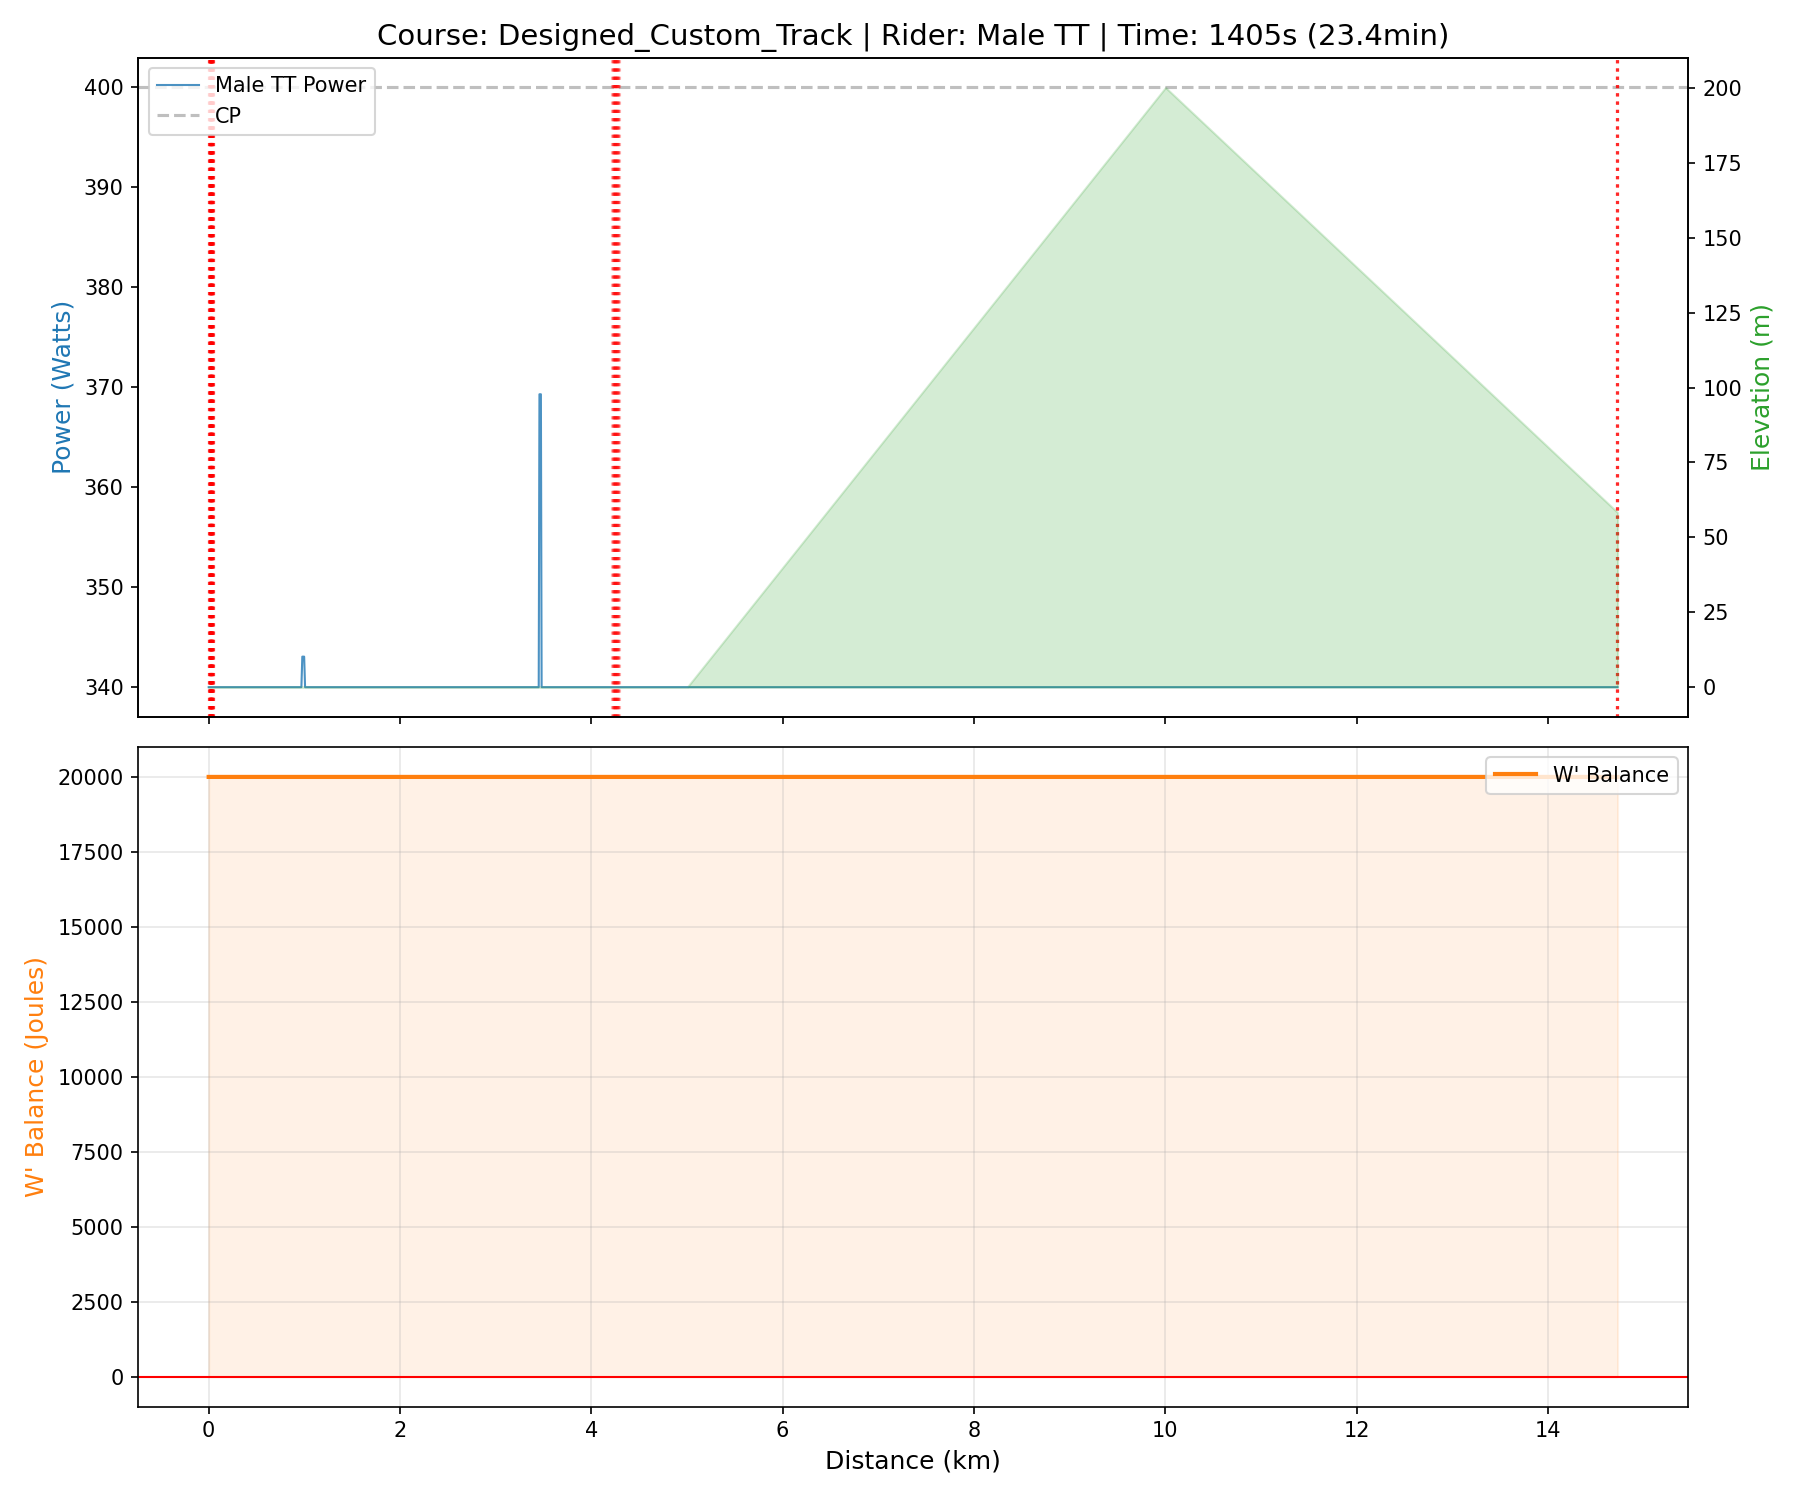
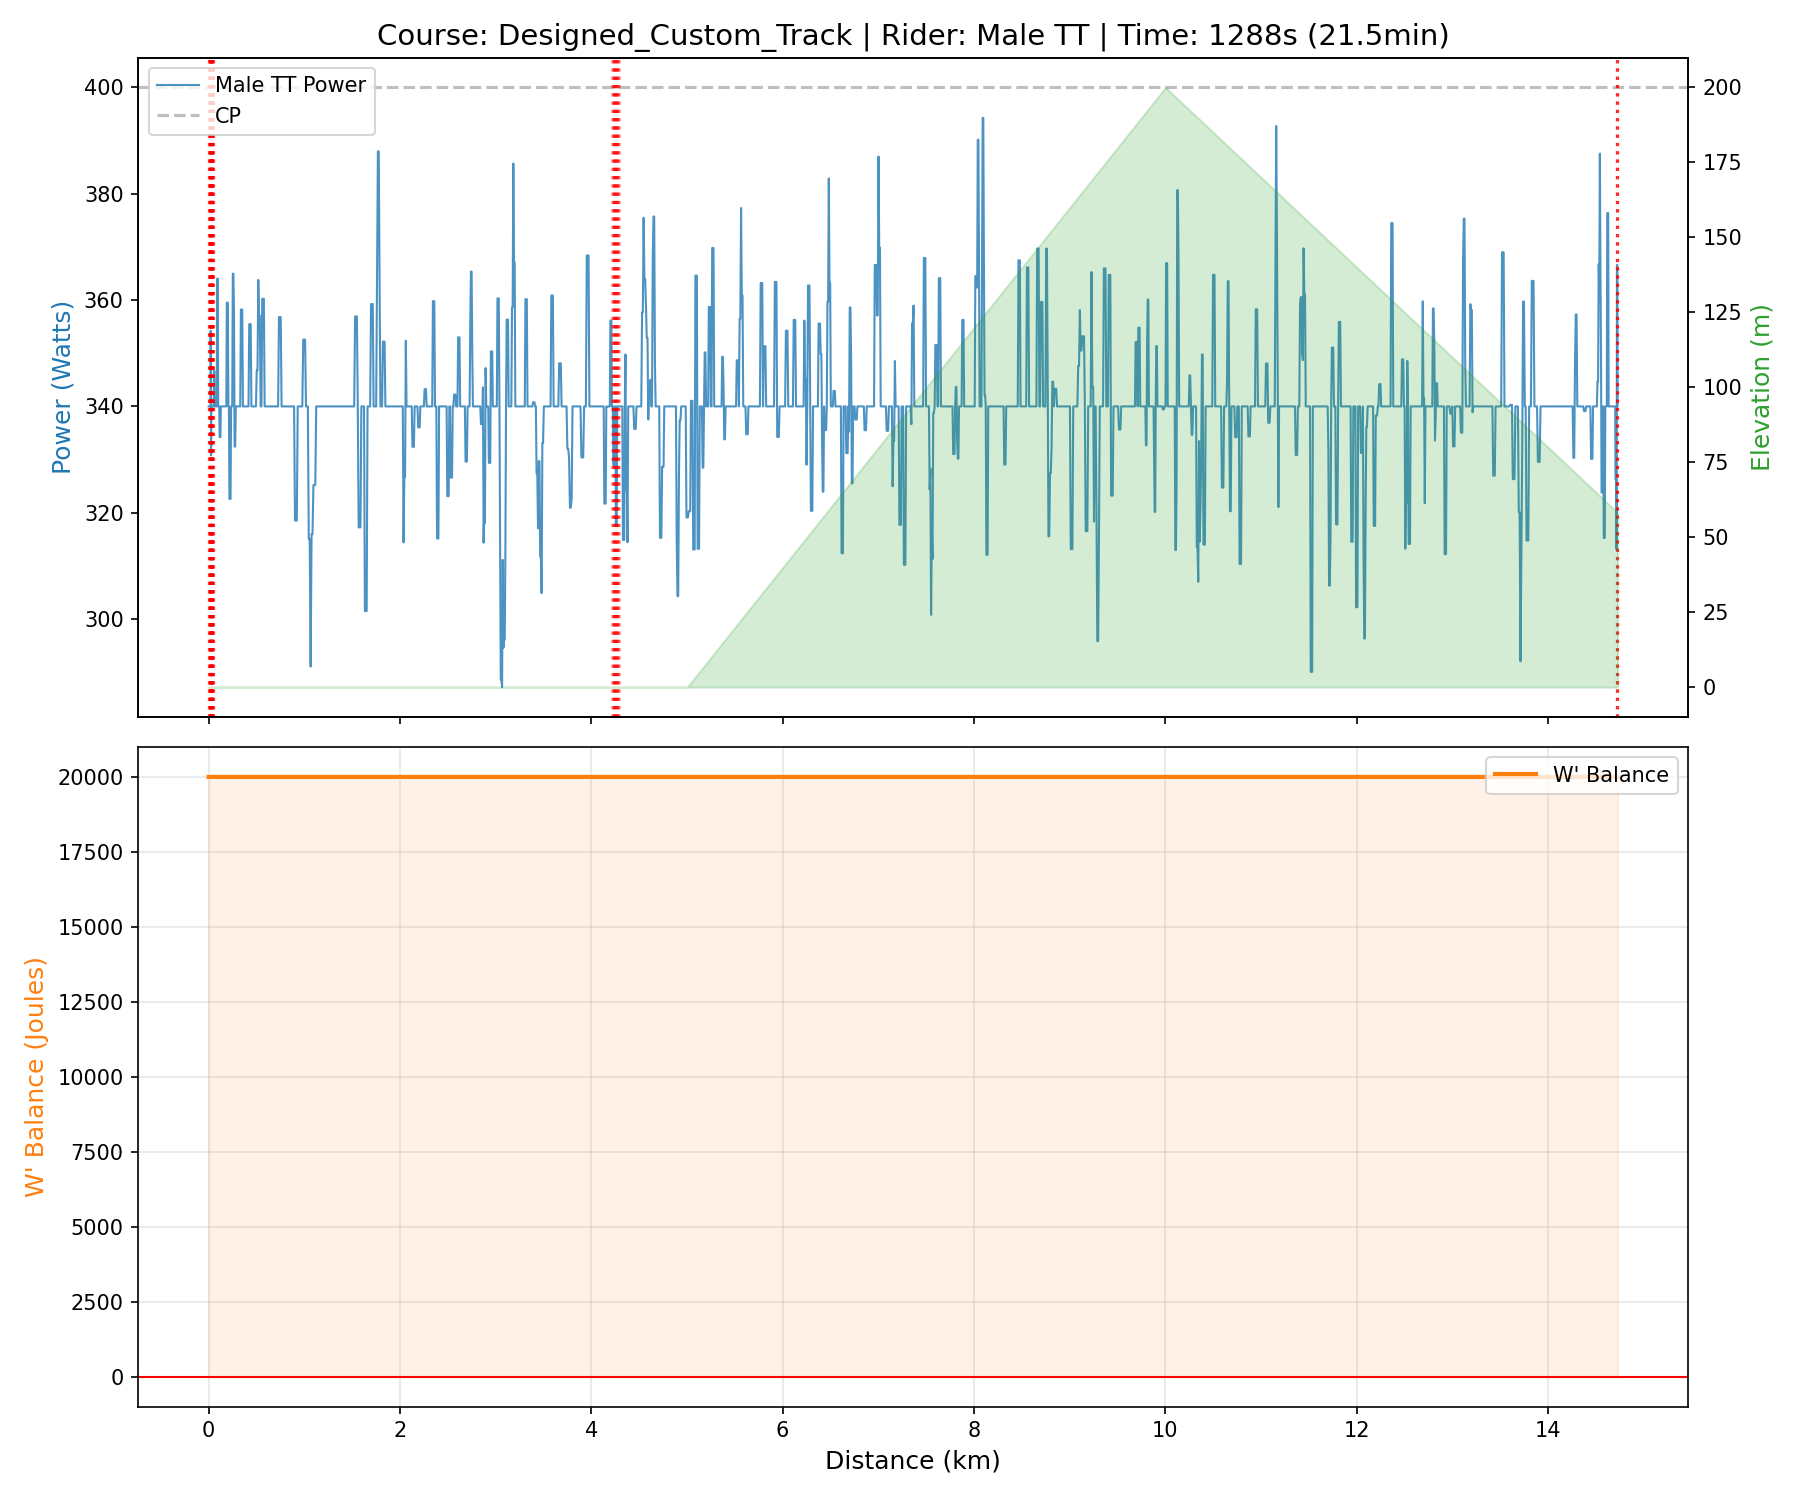
拆分图

diff --git a/solvers/question_2.py b/solvers/question_2.py
@@ -197,42 +197,61 @@ def solve_q2():
     riders = get_all_riders()
     print(f"Loaded {len(riders)} riders.")
 
-    # 2. 定义赛道列表
-    courses = []
-
-    # (A) 加载自主设计的赛道 (course_custom.csv)
+    # 2. 预加载赛道数据
+    # (A) 自主设计的赛道 (男女通用)
     custom_path = os.path.join(project_root, 'data', 'course_custom.csv')
     print(f"Loading Custom Course from {custom_path}...")
     custom_data = load_custom_course_from_csv(custom_path)
 
-    if custom_data:
-        courses.append({'name': 'Designed_Custom_Track', 'data': custom_data})
-    else:
-        print("Skipping Custom Track (File not found or error).")
-
-    # (B) 加载真实赛道 (Tokyo / Flanders)
-    # 直接读取文件，不进行插值
+    # (B) 东京奥运会赛道 (男子完整，女子取一半距离)
     tokyo_path = os.path.join(project_root, 'data', 'course_tokyo.csv')
-    tokyo_data = load_real_course(tokyo_path)
-    if tokyo_data:
-        courses.append({'name': 'Tokyo_Olympic', 'data': tokyo_data})
+    tokyo_data_full = load_real_course(tokyo_path)
+    
+    # 计算女子赛道 (取前一半距离)
+    tokyo_data_female = None
+    if tokyo_data_full:
+        total_length = sum(s['length'] for s in tokyo_data_full)
+        half_length = total_length / 2.0
+        accumulated = 0
+        tokyo_data_female = []
+        for s in tokyo_data_full:
+            if accumulated >= half_length:
+                break
+            tokyo_data_female.append(s)
+            accumulated += s['length']
+        print(f"Tokyo Female course: {len(tokyo_data_female)} segments ({accumulated/1000:.1f} km)")
 
-    flanders_path = os.path.join(project_root, 'data', 'course_flanders.csv')
-    flanders_data = load_real_course(flanders_path)
-    if flanders_data:
-        courses.append({'name': 'Flanders_WorldChamp', 'data': flanders_data})
+    # (C) Flanders 赛道 (男女分别读取不同文件)
+    flanders_men_path = os.path.join(project_root, 'data', 'flanders_men.csv')
+    flanders_women_path = os.path.join(project_root, 'data', 'flanders_women.csv')
+    flanders_data_male = load_real_course(flanders_men_path)
+    flanders_data_female = load_real_course(flanders_women_path)
 
     # 3. 开始优化循环
     results = []
 
-    for course in courses:
-        c_name = course['name']
-        c_data = course['data']
-        print(f"\n==========================================")
-        print(f"Processing Course: {c_name} (Segments: {len(c_data)})")
-        print(f"==========================================")
+    # 定义赛道配置：每个赛道根据性别选择不同数据
+    course_configs = [
+        # {'name': 'Designed_Custom_Track', 'male': custom_data, 'female': custom_data},
+        {'name': 'Tokyo_Olympic', 'male': tokyo_data_full, 'female': tokyo_data_female},
+        {'name': 'Flanders_WorldChamp', 'male': flanders_data_male, 'female': flanders_data_female}
+    ]
 
+    for config in course_configs:
+        c_name = config['name']
+        
         for rider in riders:
+            # 根据性别选择对应的赛道数据
+            c_data = config['male'] if rider.gender == 'Male' else config['female']
+            
+            if c_data is None:
+                print(f"Skipping {c_name} for {rider.name} (data not available)")
+                continue
+                
+            print(f"\n==========================================")
+            print(f"Course: {c_name} | Rider: {rider.name} (Segments: {len(c_data)})")
+            print(f"==========================================")
+
             print(f"\n--- Optimizing for {rider.name} ({rider.rider_type}) ---")
 
             # A. 运行模拟退火
